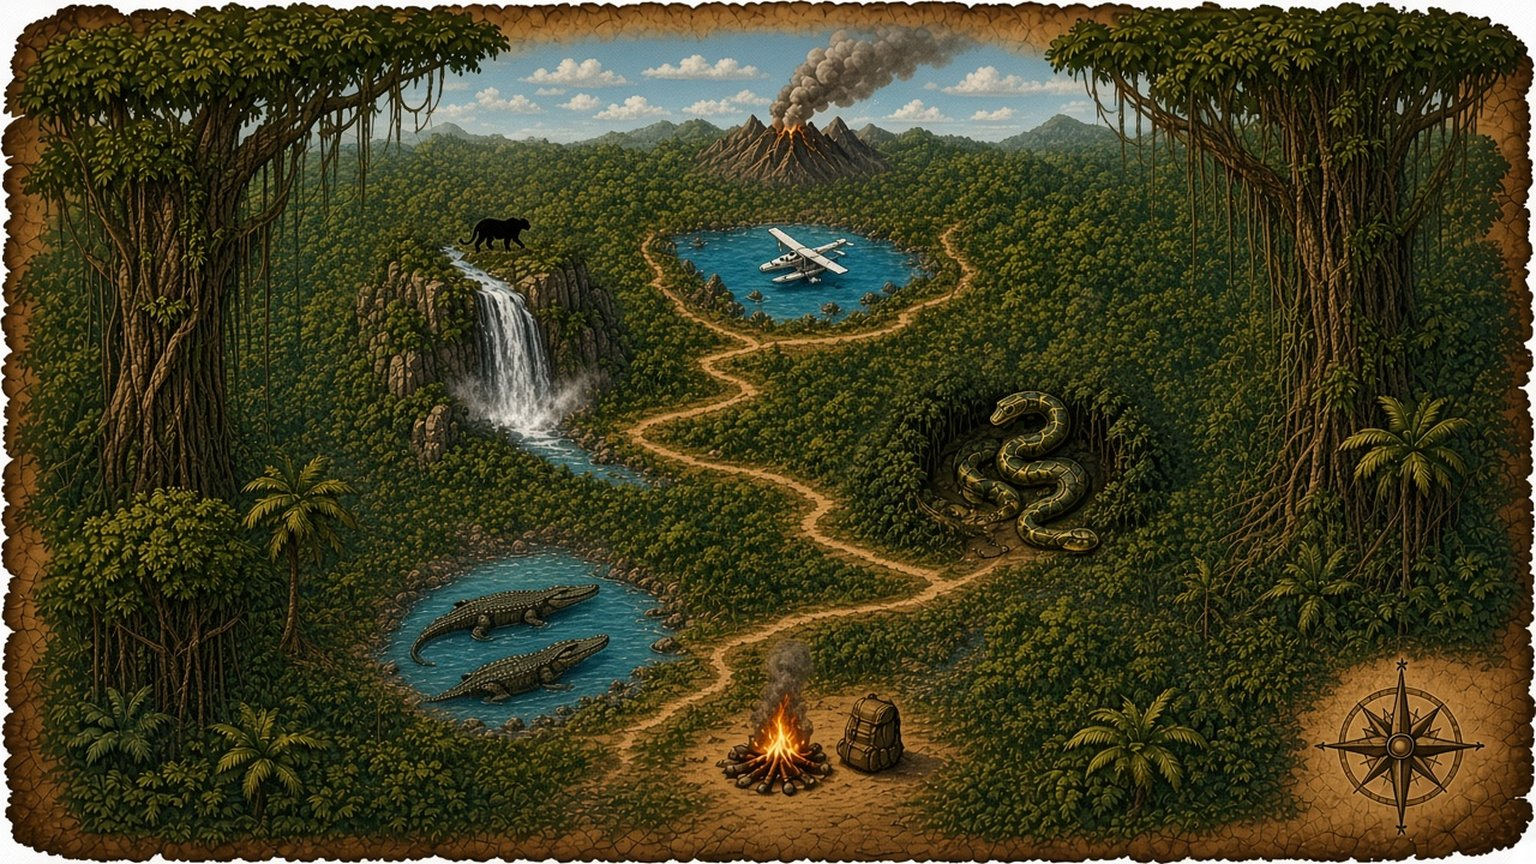
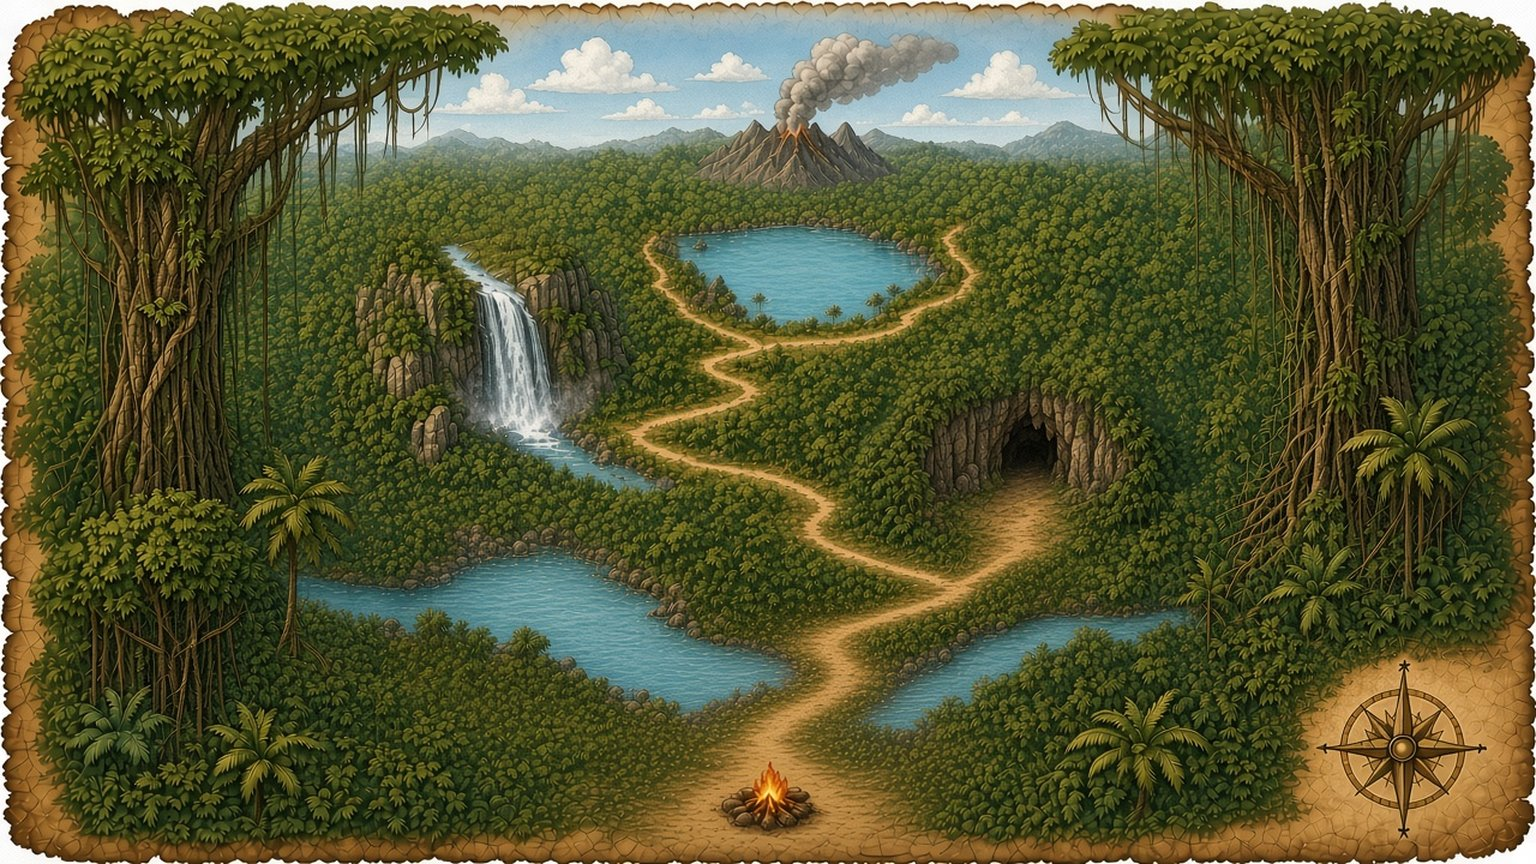
Terrain-only wide maps, soft trail, mapLabels; move strength boost off title
- Regenerate jungle/savanna/mountain wide art without creature/prop spoilers;
  mute mountain painted trail so SVG order wins.
- Dense winding path points + softer trail stroke; terrain mapLabels on map,
  story names stay in setup captions; rendezvous flags.
- Relocate .strboost to a left side panel (portrait: bottom-center) so it
  clears the Episode/Level title, milestones, and Continue; keep badge
  animation and fill SFX; overflow visible so +N% is never clipped.

diff --git a/index.html b/index.html
@@ -301,25 +301,35 @@ svg.bracket .vleaf, svg.bracket .vtex, svg.bracket .vcurl { display:none; }
 img.cv.kb { animation:kb 9s ease-out forwards; }
 @keyframes kb { from { transform:scale(1); } to { transform:scale(1.14) translateY(-1%); } }
 /* strength power-up banner (map / header) */
-.strboost { position:fixed; left:50%; top:max(18px, env(safe-area-inset-top)); transform:translateX(-50%); z-index:120; width:min(420px, 92vw); pointer-events:none;
-  display:flex; flex-direction:column; align-items:center; gap:8px; padding:14px 18px 16px; border-radius:18px;
-  background:linear-gradient(180deg, rgba(18,10,4,.92), rgba(40,22,8,.88)); border:2px solid #f3c65a; box-shadow:0 12px 40px rgba(0,0,0,.55), 0 0 28px rgba(243,198,90,.35);
+.strboost { position:fixed; left:max(14px, 2vw); right:auto; bottom:max(118px, calc(14vh + env(safe-area-inset-bottom))); top:auto; transform:none; z-index:120; width:min(340px, 42vw); pointer-events:none; overflow:visible;
+  display:flex; flex-direction:column; align-items:center; gap:8px; padding:28px 18px 14px; border-radius:18px;
+  background:linear-gradient(180deg, rgba(18,10,4,.94), rgba(40,22,8,.9)); border:2px solid #f3c65a; box-shadow:0 12px 40px rgba(0,0,0,.55), 0 0 28px rgba(243,198,90,.35);
   animation:strIn .45s cubic-bezier(.2,1.4,.4,1) both; }
 .strboost.go { animation:strOut .5s ease-in forwards; }
-@keyframes strIn { from { opacity:0; transform:translateX(-50%) translateY(-18px) scale(.92); } to { opacity:1; transform:translateX(-50%) translateY(0) scale(1); } }
-@keyframes strOut { to { opacity:0; transform:translateX(-50%) translateY(-12px) scale(.96); } }
+@keyframes strIn { from { opacity:0; transform:translateY(18px) scale(.92); } to { opacity:1; transform:translateY(0) scale(1); } }
+@keyframes strOut { to { opacity:0; transform:translateY(14px) scale(.96); } }
 .strboost .sblbl { font-weight:900; letter-spacing:.06em; color:#fff3d0; font-size:0.95rem; text-transform:uppercase; }
-.strboost .sbbar { position:relative; width:100%; height:28px; border-radius:999px; background:rgba(255,255,255,.12); overflow:hidden; box-shadow:inset 0 2px 6px rgba(0,0,0,.45); }
+.strboost .sbbar { position:relative; width:100%; height:28px; border-radius:999px; background:rgba(255,255,255,.12); overflow:visible; box-shadow:inset 0 2px 6px rgba(0,0,0,.45); margin-top:10px; }
 .strboost .sbbar .sbfill { height:100%; width:0%; border-radius:999px; background:linear-gradient(90deg, #2f9a5a, #f3c65a 70%, #ffe9a0);
-  box-shadow:0 0 16px rgba(243,198,90,.75), 0 0 8px rgba(47,154,90,.6); transition:none; }
+  box-shadow:0 0 16px rgba(243,198,90,.75), 0 0 8px rgba(47,154,90,.6); transition:none; overflow:hidden; }
 .strboost .sbbar.pulse .sbfill { animation:sbPulse 1.1s ease-in-out infinite; }
 @keyframes sbPulse { 0%,100% { filter:brightness(1); } 50% { filter:brightness(1.25); } }
 .strboost .sbpct { font-weight:900; font-size:1.55rem; color:#fff; font-variant-numeric:tabular-nums; text-shadow:0 2px 8px rgba(0,0,0,.6); }
-.strboost .sbbadge { position:absolute; right:10px; top:-18px; padding:6px 12px; border-radius:999px; font-weight:900; font-size:1.05rem;
-  background:linear-gradient(180deg,#ffe9a0,#f3c65a); color:#3a2208; box-shadow:0 6px 16px rgba(0,0,0,.4); animation:badgePop .55s cubic-bezier(.2,1.6,.4,1) both; }
+.strboost .sbbadge { position:absolute; right:8px; top:-22px; padding:6px 12px; border-radius:999px; font-weight:900; font-size:1.05rem;
+  background:linear-gradient(180deg,#ffe9a0,#f3c65a); color:#3a2208; box-shadow:0 6px 16px rgba(0,0,0,.4); animation:badgePop .55s cubic-bezier(.2,1.6,.4,1) both; z-index:2; }
 @keyframes badgePop { 0% { opacity:0; transform:translateY(10px) scale(.4); } 60% { transform:translateY(-6px) scale(1.12); } 100% { opacity:1; transform:translateY(0) scale(1); } }
 .strboost .sbbadge.float { animation:badgeFloat 2.2s ease-out forwards; }
-@keyframes badgeFloat { to { transform:translateY(-28px); opacity:0; } }
+@keyframes badgeFloat { to { transform:translateY(-36px); opacity:0; } }
+/* When the map is up, keep the boost clear of the title banner and the bottom-right Continue stack */
+.cscreen.map ~ * .strboost, body:has(#cine:not([hidden]) .cscreen.map) .strboost {
+  left:max(18px, 2.2vw); right:auto; bottom:max(150px, calc(18vh + env(safe-area-inset-bottom)));
+  width:min(320px, 38vw); transform:none; overflow:visible;
+}
+@media (max-aspect-ratio: 3/4) {
+  .cscreen.map ~ * .strboost, body:has(#cine:not([hidden]) .cscreen.map) .strboost {
+    left:50%; transform:translateX(-50%); width:min(340px, 86vw); bottom:max(160px, calc(20vh + env(safe-area-inset-bottom)));
+  }
+}
 
 .vload, .vtap { position:absolute; inset:0; display:flex; flex-direction:column; align-items:center; justify-content:center; gap:14px; z-index:2; pointer-events:none; }
 .vtap { pointer-events:auto; cursor:pointer; background:rgba(0,0,0,.28); }
@@ -386,8 +396,8 @@ img.cv.kb { animation:kb 9s ease-out forwards; }
 .mapbox .mname { font-size:clamp(0.8rem, 2.3vh, 1.15rem); }
 .mapbox .mlb { right:2%; bottom:2%; min-width:48px; height:48px; font-size:1.2rem; }
 @keyframes mapIn { from { opacity:0; transform:scale(1.08) rotate(-1.5deg); } to { opacity:1; transform:none; } }
-.trail-outline { fill:none; stroke:#2a1608; stroke-width:16; stroke-linecap:round; stroke-linejoin:round; opacity:.62; }
-.trail-path { fill:none; stroke:#e8c48a; stroke-width:9; stroke-linecap:round; stroke-linejoin:round; opacity:.95; }
+.trail-outline { fill:none; stroke:#3a2410; stroke-width:11; stroke-linecap:round; stroke-linejoin:round; opacity:.42; }
+.trail-path { fill:none; stroke:#d2a86a; stroke-width:6; stroke-linecap:round; stroke-linejoin:round; opacity:.72; }
 .mlab rect { fill:rgba(20,12,4,.78); stroke:#f3c65a; stroke-width:2; rx:10; }
 .mlab text { fill:#fff3d0; font:800 20px "Cinzel MVM", Georgia, serif; text-anchor:middle; dominant-baseline:central; }
 .mlab.cur rect { fill:rgba(140,30,18,.88); stroke:#ffd43b; }
@@ -1737,53 +1747,53 @@ document.addEventListener("visibilitychange", () => { if (!AC) return; try { if 
 const ASSET = n => "assets/" + n;
 const DEV = /[?&]dev=1\b/.test(location.search);
 const EP_INFO = [
-  { name: "The Jungle", filter: "", soon: "", map: "map-jungle-wide", rendezvous: "Seaplane Rendezvous",
-    pts: [[768, 805], [455, 705], [1035, 435], [405, 305], [775, 245]],
-    lab: [[110, 10], [-105, 35], [85, 45], [-115, 25], [0, 58]],
+  { name: "The Jungle", filter: "", soon: "", map: "map-jungle-wide", rendezvous: "The Lagoon",
+    pts: [[768, 820], [690, 700], [1100, 470], [380, 340], [790, 235]],
+    lab: [[125, -5], [50, 55], [75, 40], [-115, 25], [10, 55]],
     path: [
-      [768,805],[740,795],[700,785],[650,775],[600,760],[550,745],[500,725],[470,715],[455,705],
-      [470,680],[510,650],[560,620],[620,590],[680,560],[740,530],[800,505],[860,480],[920,460],[980,445],[1035,435],
-      [1000,415],[940,395],[870,375],[790,355],[710,340],[620,325],[530,315],[460,310],[405,305],
-      [450,290],[520,275],[590,265],[660,255],[720,250],[775,245]
+      [768,820],[750,805],[735,785],[720,760],[705,735],[695,715],[690,700],
+      [710,685],[760,670],[820,655],[880,635],[940,610],[990,580],[1040,545],[1075,510],[1100,470],
+      [1070,455],[1010,445],[940,435],[860,420],[780,405],[700,390],[620,375],[540,360],[460,350],[380,340],
+      [420,325],[490,310],[570,295],[650,280],[720,260],[760,245],[790,235]
     ] },
-  { name: "The Savanna", filter: "", soon: "", map: "map-savanna-wide", rendezvous: "Safari Truck",
-    pts: [[770, 810], [395, 700], [1125, 440], [385, 260], [910, 195]],
-    lab: [[115, 5], [-95, 40], [80, 48], [-110, 35], [20, 58]],
+  { name: "The Savanna", filter: "", soon: "", map: "map-savanna-wide", rendezvous: "The Ravine",
+    pts: [[760, 845], [735, 705], [1140, 490], [290, 275], [830, 205]],
+    lab: [[125, -5], [45, 52], [70, 42], [-105, 30], [15, 55]],
     path: [
-      [770,810],[720,795],[650,780],[560,760],[480,740],[420,720],[395,700],
-      [430,670],[500,640],[580,610],[670,580],[760,550],[860,520],[960,490],[1050,465],[1125,440],
-      [1060,410],[980,380],[880,350],[760,320],[640,295],[520,275],[440,265],[385,260],
-      [450,245],[540,230],[640,215],[740,205],[830,198],[910,195]
+      [760,845],[755,820],[748,790],[742,755],[738,730],[735,705],
+      [780,685],[850,660],[920,630],[990,595],[1050,555],[1100,520],[1140,490],
+      [1080,470],[1000,450],[900,425],[780,400],[650,370],[520,340],[400,310],[330,290],[290,275],
+      [350,260],[450,245],[560,230],[680,218],[760,210],[830,205]
     ] },
-  { name: "Mountain Crossing", filter: "", soon: "", map: "map-mountain-wide", rendezvous: "Helicopter Rendezvous",
-    pts: [[768, 800], [430, 600], [1120, 420], [450, 340], [780, 230]],
-    lab: [[115, 5], [-100, 40], [75, 48], [-115, 35], [0, 58]],
+  { name: "Mountain Crossing", filter: "", soon: "", map: "map-mountain-wide", rendezvous: "The Summit",
+    pts: [[768, 815], [420, 605], [1120, 430], [390, 345], [780, 225]],
+    lab: [[125, -5], [-105, 38], [70, 42], [-115, 32], [5, 55]],
     path: [
-      [768,800],[720,780],[650,750],[560,710],[490,660],[450,630],[430,600],
-      [480,575],[560,555],[660,530],[760,505],[870,480],[980,455],[1060,435],[1120,420],
-      [1050,400],[960,380],[850,365],[730,355],[600,348],[520,344],[450,340],
-      [500,320],[580,300],[660,280],[720,255],[780,230]
+      [768,815],[730,790],[670,755],[590,710],[510,660],[455,630],[420,605],
+      [470,585],[560,560],[670,535],[800,505],[940,470],[1040,450],[1120,430],
+      [1040,415],[920,395],[780,375],[620,360],[500,350],[390,345],
+      [460,320],[560,290],[660,265],[730,245],[780,225]
     ] }
 ];
 const LV_INFO = [
-  { name: "Gator River", brief: "Solve 4 problems to swing over the gators!", winCap: "Across Gator River!", setup: "setup-l1", win: "win-l1", lose: "lose-l1" },
-  { name: "Boa Drop", brief: "Solve 4 problems to break free of the boa!", winCap: "Free of the boa!", setup: "setup-l2", win: "win-l2", lose: "lose-l2" },
-  { name: "Jaguar Ridge", brief: "Solve 4 problems to escape the jaguar!", winCap: "What a leap!", setup: "setup-l3", win: "win-l3", lose: "lose-l3" },
-  { name: "The Great Escape", brief: "Solve 2 problems to outrun the river guardians!", winCap: "Escaped by seaplane!", setup: "setup-l4", win: "win-l4", lose: "lose-l4" }
+  { name: "Gator River", mapLabel: "The River", brief: "Solve 4 problems to swing over the gators!", winCap: "Across Gator River!", setup: "setup-l1", win: "win-l1", lose: "lose-l1" },
+  { name: "Boa Drop", mapLabel: "Rocky Drop", brief: "Solve 4 problems to break free of the boa!", winCap: "Free of the boa!", setup: "setup-l2", win: "win-l2", lose: "lose-l2" },
+  { name: "Jaguar Ridge", mapLabel: "The Ridge", brief: "Solve 4 problems to escape the jaguar!", winCap: "What a leap!", setup: "setup-l3", win: "win-l3", lose: "lose-l3" },
+  { name: "The Great Escape", mapLabel: "The Lagoon", brief: "Solve 2 problems to outrun the river guardians!", winCap: "Escaped by seaplane!", setup: "setup-l4", win: "win-l4", lose: "lose-l4" }
 ];
 const JUNGLE_PTS = EP_INFO[0].pts;
 const EP_LV = {
   1: [
-    { name: "Hippo River", brief: "Solve 4 problems to pole past the hippos!", winCap: "Across Hippo River!", setup: "setup-e2l1", win: "win-e2l1", lose: "lose-e2l1" },
-    { name: "Tightrope Gorge", brief: "Solve 4 problems to cross the gorge before the leopard!", winCap: "Rope cut — gorge crossed!", setup: "setup-e2l2", win: "win-e2l2", lose: "lose-e2l2" },
-    { name: "Lion Crossing", brief: "Solve 4 problems to face down the lion!", winCap: "Lion Crossing conquered!", setup: "setup-e2l3", win: "win-e2l3", lose: "lose-e2l3" },
-    { name: "Buffalo Ravine", brief: "Solve 2 problems to outrun the stampede!", winCap: "Escaped by safari truck!", setup: "setup-e2l4", win: "win-e2l4", lose: "lose-e2l4" }
+    { name: "Hippo River", mapLabel: "The River", brief: "Solve 4 problems to pole past the hippos!", winCap: "Across Hippo River!", setup: "setup-e2l1", win: "win-e2l1", lose: "lose-e2l1" },
+    { name: "Tightrope Gorge", mapLabel: "The Gorge", brief: "Solve 4 problems to cross the gorge before the leopard!", winCap: "Rope cut — gorge crossed!", setup: "setup-e2l2", win: "win-e2l2", lose: "lose-e2l2" },
+    { name: "Lion Crossing", mapLabel: "The Trail", brief: "Solve 4 problems to face down the lion!", winCap: "Lion Crossing conquered!", setup: "setup-e2l3", win: "win-e2l3", lose: "lose-e2l3" },
+    { name: "Buffalo Ravine", mapLabel: "The Ravine", brief: "Solve 2 problems to outrun the stampede!", winCap: "Escaped by safari truck!", setup: "setup-e2l4", win: "win-e2l4", lose: "lose-e2l4" }
   ],
   2: [
-    { name: "The Climb", brief: "Solve 4 problems to scramble up the scree!", winCap: "Over the top — camp and a snowboard!", setup: "setup-e3l1", win: "win-e3l1", lose: "lose-e3l1" },
-    { name: "Avalanche Run", brief: "Solve 4 problems to outrun the avalanche!", winCap: "Avalanche dodged!", setup: "setup-e3l2", win: "win-e3l2", lose: "lose-e3l2" },
-    { name: "Campfire Wolves", brief: "Solve 4 problems to get that fire lit!", winCap: "The pack runs for it!", setup: "setup-e3l3", win: "win-e3l3", lose: "lose-e3l3" },
-    { name: "Wolf Chase", brief: "Solve 2 problems to reach the rescue helicopter!", winCap: "Rescued at the rendezvous!", setup: "setup-e3l4", win: "win-e3l4", lose: "lose-e3l4" }
+    { name: "The Climb", mapLabel: "The Climb", brief: "Solve 4 problems to scramble up the scree!", winCap: "Over the top — camp and a snowboard!", setup: "setup-e3l1", win: "win-e3l1", lose: "lose-e3l1" },
+    { name: "Avalanche Run", mapLabel: "The Slope", brief: "Solve 4 problems to outrun the avalanche!", winCap: "Avalanche dodged!", setup: "setup-e3l2", win: "win-e3l2", lose: "lose-e3l2" },
+    { name: "Campfire Wolves", mapLabel: "Campsite", brief: "Solve 4 problems to get that fire lit!", winCap: "The pack runs for it!", setup: "setup-e3l3", win: "win-e3l3", lose: "lose-e3l3" },
+    { name: "Wolf Chase", mapLabel: "The Summit", brief: "Solve 2 problems to reach the rescue helicopter!", winCap: "Rescued at the rendezvous!", setup: "setup-e3l4", win: "win-e3l4", lose: "lose-e3l4" }
   ]
 };
 const LVS = ep => EP_LV[ep] || LV_INFO;
@@ -1946,7 +1956,8 @@ const Cine = (() => {
         svg += '<g class="mlab done" transform="translate(' + (MAP_PTS[0][0] + soff[0]) + "," + (MAP_PTS[0][1] + soff[1]) + ')"><rect x="-48" y="-16" width="96" height="32"/><text style="font-size:18px">Start</text></g>';
         for (let n = 1; n <= 4; n++) {
           const isRv = n === 4;
-          const nm = isRv ? (E.rendezvous || ((levels[n - 1] && levels[n - 1].name) || ("Level " + n))) : ((levels[n - 1] && levels[n - 1].name) || ("Level " + n));
+          const Lv = levels[n - 1] || {};
+          const nm = isRv ? (E.rendezvous || Lv.mapLabel || Lv.name || ("Level " + n)) : (Lv.mapLabel || Lv.name || ("Level " + n));
           const st = n <= lv ? "done" : n === lv + 1 ? "cur" : "todo";
           const off = labs[n] || [0, 55];
           const lx = MAP_PTS[n][0] + off[0], ly = MAP_PTS[n][1] + off[1];
@@ -2491,9 +2502,16 @@ if (DEV) {
   if (mapQ != null) {
     const parts = mapQ.split(/[,:]/).map(n => +n || 0);
     const ep = Math.max(0, Math.min(2, parts[0])), lv = Math.max(0, Math.min(3, parts[1] || 0));
-    try { ANIM = 0.001; } catch (e) {}
-    setTimeout(() => { try { window.__MVM && window.__MVM.setAnim && window.__MVM.setAnim(0.001); } catch (e) {}
-      Cine.map(ep, lv, { choice: true, showSave: !(ep === 0 && lv === 0) }); }, 200);
+    const boostQ = new URLSearchParams(location.search).get("boost");
+    try { ANIM = boostQ ? 1 : 0.001; } catch (e) {}
+    setTimeout(() => { try { window.__MVM && window.__MVM.setAnim && window.__MVM.setAnim(boostQ ? 1 : 0.001); } catch (e) {}
+      Cine.map(ep, lv, { choice: true, showSave: !(ep === 0 && lv === 0) });
+      if (boostQ) {
+        const bp = boostQ.split(/[,:]/).map(n => +n);
+        const from = Number.isFinite(bp[0]) ? bp[0] : 40, to = Number.isFinite(bp[1]) ? bp[1] : 70;
+        setTimeout(() => { try { showStrengthBoost(from, to, { dur: 900, hold: 20000 }); } catch (e) {} }, 350);
+      }
+    }, 200);
   }
   const d = document.createElement("div"); d.id = "devp";
   d.innerHTML = 'DEV <select id="dv-ep"><option value="0">E1</option><option value="1">E2</option><option value="2">E3</option></select><select id="dv-lv"><option value="0">L1</option><option value="1">L2</option><option value="2">L3</option><option value="3">L4</option></select>' +
@@ -2524,6 +2542,7 @@ runTitle();
 preloadBoot();
 try { const sp = parseFloat(new URLSearchParams(location.search).get("timerSpeed")); if (sp > 0) G.timeScale = sp; } catch (e) {}
 
+window.showStrengthBoost = showStrengthBoost;
 window.__MVM = { G, Cine, Music, beginLevel, winLevel, loseFlow, runTitle, devSolve, store, TUNE, LV_INFO, EP_INFO, LVS, Progress, normName, rosterCsv, openBoard, get DB() { return DB; }, timerRunning, unlocked, setAnim: v => { ANIM = v; } };
 window.__DD = { G, EPISODES, render: () => render(), setTimeScale: v => { G.timeScale = v; }, act, analyze, mulSteps, genLevel, newLevel, LEVELS, setAnim: v => { ANIM = v; }, setLock: () => { lockUntil = 0; },
   loadProblem(D, d) { G.overlay = null; G.problems[G.probIdx] = { D: String(D), d }; startProblem(); }, state: () => { const P = G.P; return P && { episode: G.episode, level: G.level, timeLeft: G.timeLeft, overlay: G.overlay && G.overlay.type, phase: P.phase, expect: P.expect, cur: P.cur, lives: G.strength, strength: G.strength, pens: P.pens, msg: P.msg, nudgeK: P.nudgeK, cycles: P.cycles.map(c => ({ pos: c.pos, top: c.topStr, q: c.q, prevQ: c.prevQ, diff: c.diff, sub: c.sub && { col: c.sub.col, work: c.sub.work.slice(), written: c.sub.written.slice(), impossible: c.sub.impossible }, mulIdx: c.mul && c.mul.idx })) }; } };
